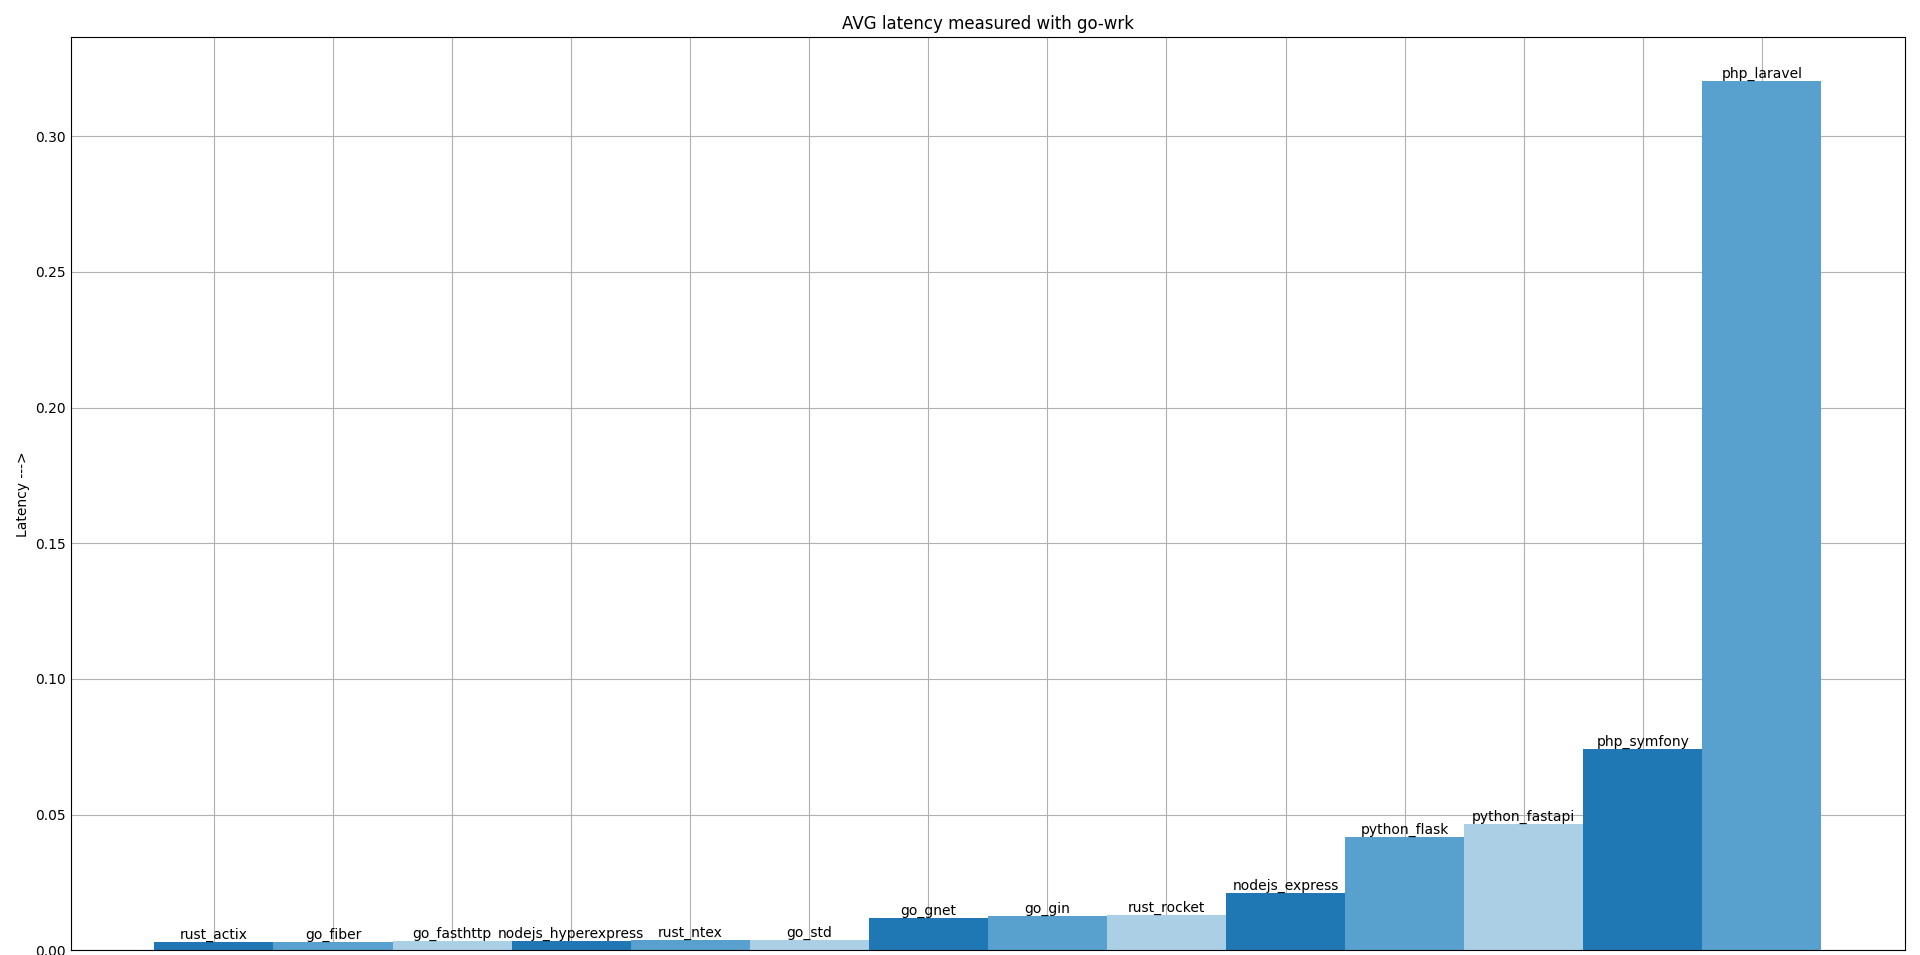
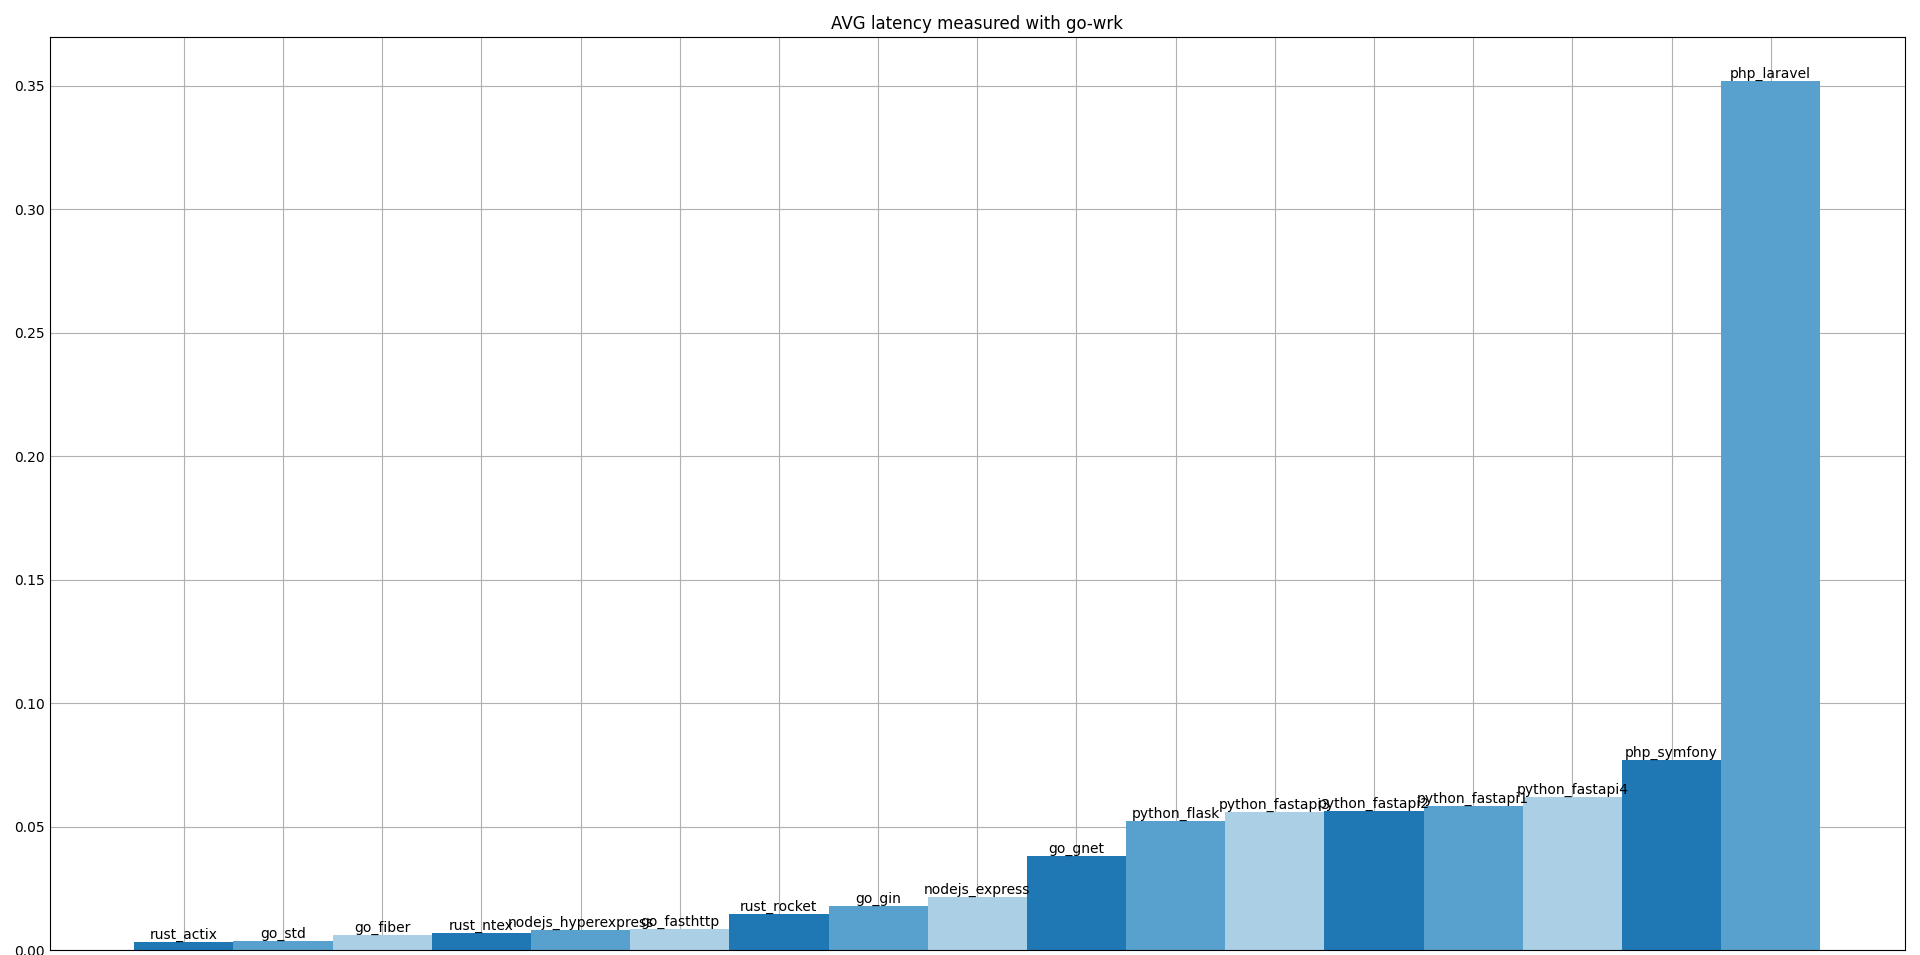
More plots, conclusions, finish for now

diff --git a/utils/draw_plots.py b/utils/draw_plots.py
@@ -5,7 +5,7 @@ import csv
 def main():
 
     data_dict = {}
-    selected_tool = "my_util"
+    selected_tool = "go-wrk"
     row_name = "Total requests made"
 
     with open("results.csv") as csv_file:

diff --git a/README.md b/README.md
@@ -111,17 +111,18 @@ Nim //Seems quite raw to me, i'll test it later; but i wouldn't consider it for 
 
 ---
 
-###### CPU usage under stress from go-wrk
-###### CPU usage under stress from wrk
-###### CPU usage under stress from my_util
+###### Max CPU usage
+![](imgs/max_cpu_usage.png)
 
 ---
 
-###### Mem usage under stress from go-wrk
-###### Mem usage under stress from wrk
-###### Mem usage under stress from my_util
+###### Max Mem usage
+![](imgs/max_mem_usage.png)
 
 ---
+
+Notes:
+1. I numerated FastAPI instances by number of workers used in uvicorn
 
 #### Conclusions
 
@@ -133,7 +134,8 @@ Nim //Seems quite raw to me, i'll test it later; but i wouldn't consider it for 
 ###### PHP vs JS vs Python
 1. Laravel is a big and complex framework, symfony is lighter and faster
 2. Still, even python flask and FastAPI are faster
-3. FastAPI being slower than Flask in some tests is probably caused by using `gunicorn -w 2` for Flask and `uvicorn --workers 1` for FastAPI (i'll test it later)
+3. I wouldn't say that FastAPI is faster than Flask, at least i don't see it here as clear as i wanted it to be -- 
+maybe it's because of using gunicorn for flask and uvicorn for fastapi, i didn't test yet
 4. ExpressJS is better than FastAPI and Flask in this test, even through i run it with simple `node index.js`
 5. It would be interesting to see ExpressJS performance with Bun and/or PM2
 6. Hyper-Express did really good, i didn't expect it to be on par with rust and go
